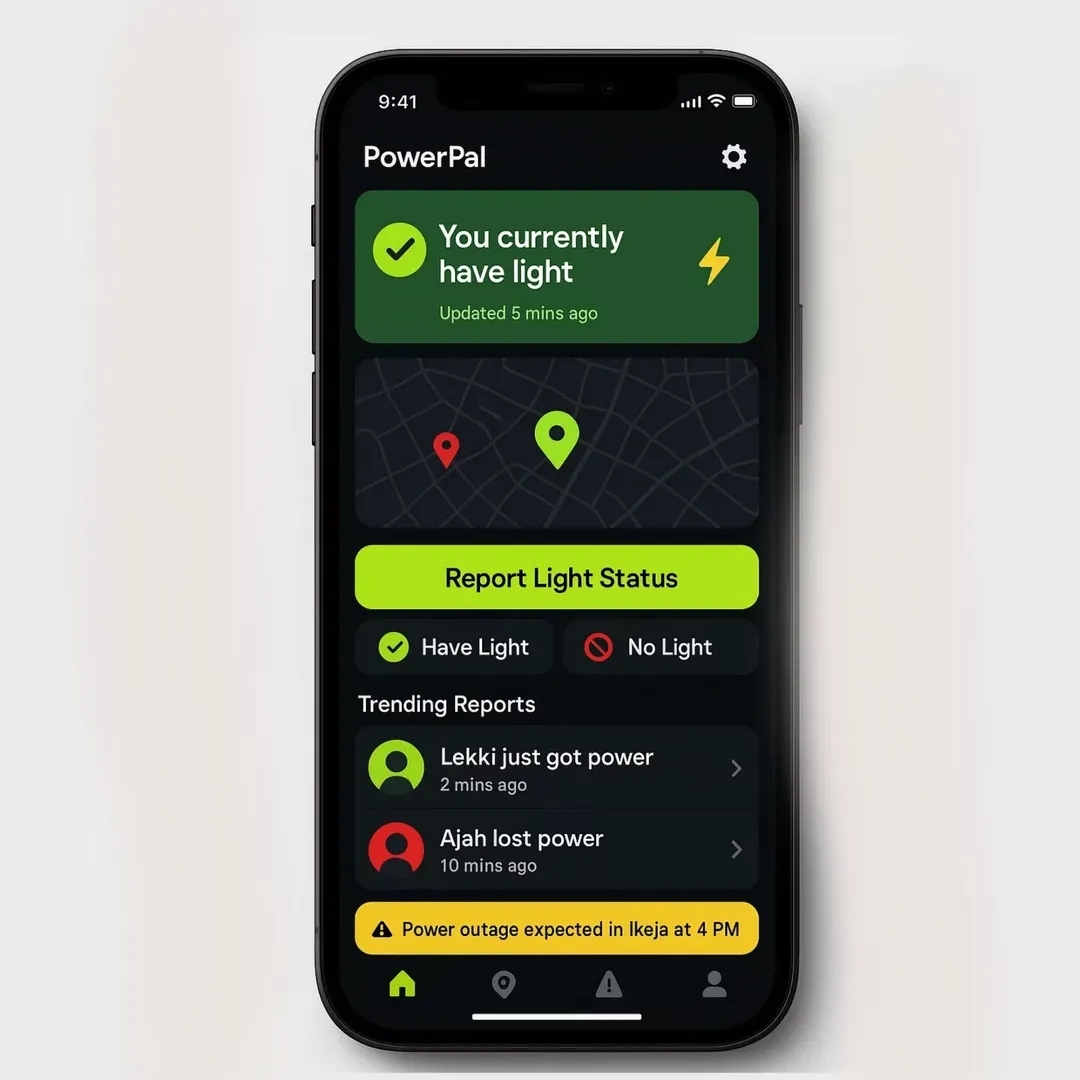
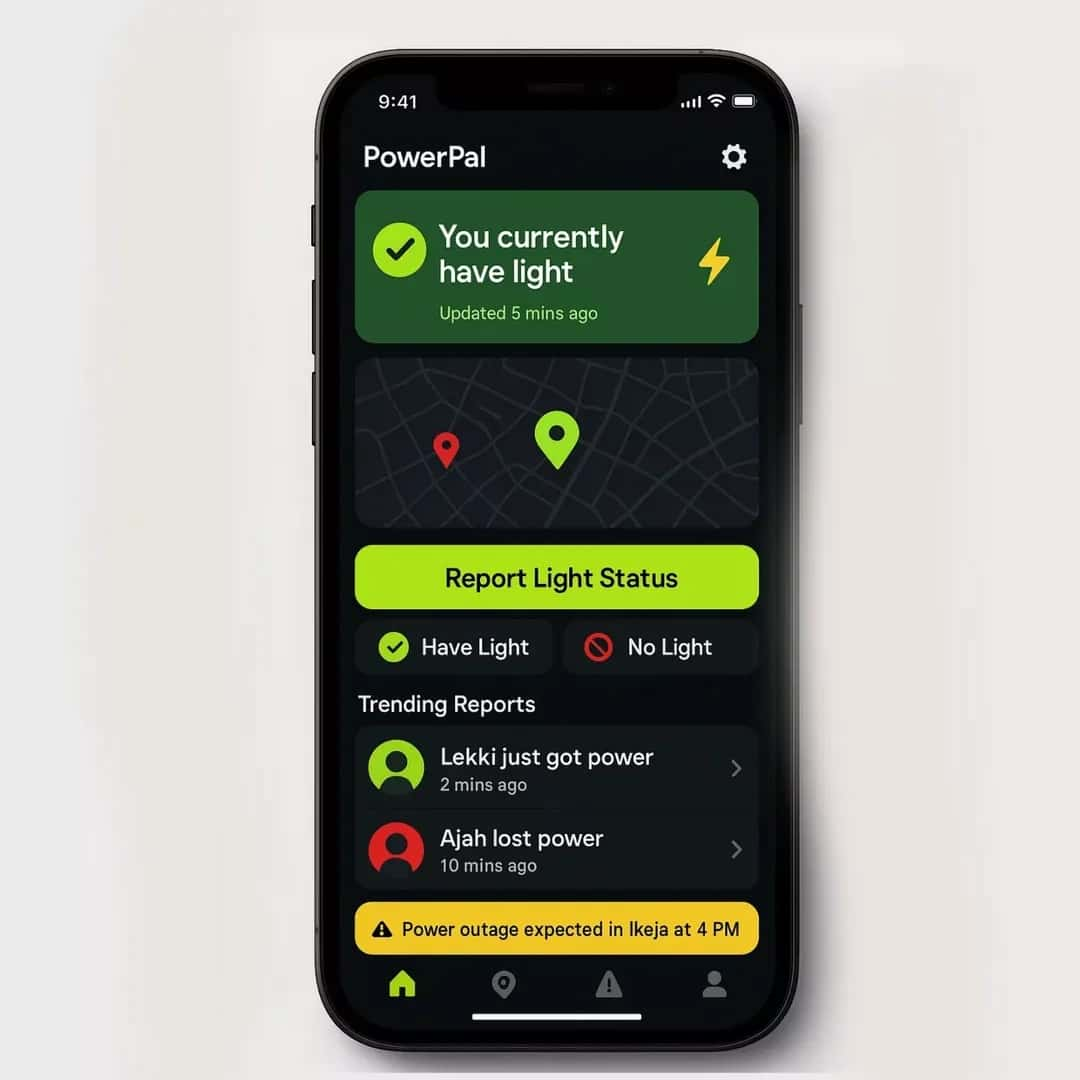
optimized images

diff --git a/index.html b/index.html
@@ -200,7 +200,7 @@
       <div class="hero-visual" data-reveal>
         <div class="mock">
           <!-- Keeping your original image path -->
-          <img src="images/20250828_142036.jpg" alt="Showcase">
+          <img src="images\logos\20250828_142036.webp" alt="Showcase">
         </div>
       </div>
     </div>
@@ -226,7 +226,7 @@ Over time, I’ve worked on different kinds of projects — from logos and brand
     <div class="about-avatar" data-reveal>
       <div class="about-avatar about-img about-card" style="padding:0; overflow:hidden">
         <!-- Keeping your original image path -->
-        <img src="images/20250828_233112-Recovered.png" alt="Praise Oloyede" style="width:100%; display:block;">
+        <img src="images\logos\20250828_233112-Recovered.webp" alt="Praise Oloyede" style="width:100%; display:block;">
       </div>
     </div>
   </section>
@@ -267,7 +267,7 @@ Over time, I’ve worked on different kinds of projects — from logos and brand
         <div class="testimonial">
           <div class="quote">“Praise took our brand from bland to unforgettable. The new identity helped increase conversions and gave our team a confident voice.”</div>
           <div class="client">
-            <img src="images/person.png" alt="Client avatar">
+            <img src="images\logos\person.png" alt="Client avatar">
             <div>
               <div class="client-info">Emmanuel Olusegun</div>
               <div class="client-role">CEO — Vincevad Limited</div>
@@ -278,7 +278,7 @@ Over time, I’ve worked on different kinds of projects — from logos and brand
         <div class="testimonial">
           <div class="quote">“The social campaign exceeded expectations — CTRs and engagement skyrocketed. Clear strategy and stunning creative.”</div>
           <div class="client">
-            <img src="images/person.png" alt="Client avatar">
+            <img src="images\logos\person.png" alt="Client avatar">
             <div>
               <div class="client-info">Mark Wilson</div>
               <div class="client-role">Marketing Lead — Pulse</div>
@@ -289,7 +289,7 @@ Over time, I’ve worked on different kinds of projects — from logos and brand
         <div class="testimonial">
           <div class="quote">“Fast, professional, and deeply thoughtful. The product UI shipped ahead of schedule and looks incredible.”</div>
           <div class="client">
-            <img src="images/person.png" alt="Client avatar">
+            <img src="images\logos\person.png" alt="Client avatar">
             <div>
               <div class="client-info">Obasi Hope</div>
               <div class="client-role">CEO — Proveede</div>
@@ -300,9 +300,9 @@ Over time, I’ve worked on different kinds of projects — from logos and brand
 
       <div class="client-logos" data-reveal>
         <!-- placeholder client logos -->
-        <img src="images/20250731_132812.jpg" alt="Client logo">
-        <img src="images/12355233.jpg" alt="Client logo">
-        <img src="images/427195940.jpg" alt="Client logo">
+        <img src="images\logos\12355233.webp" alt="Client logo">
+        <img src="images\logos\427195940.webp" alt="Client logo">
+        <img src="images\logos\20250731_132812.webp" alt="Client logo">
       </div>
     </div>
   </section>
@@ -324,58 +324,57 @@ Over time, I’ve worked on different kinds of projects — from logos and brand
 
     <div class="portfolio-grid" id="portfolioGrid" data-reveal>
       <!-- Church (5) -->
-      <div class="tile church"><img src="images/New folder\1937746163.jpg" alt="Church"></div>
-      <div class="tile church"><img src="images/New folder\78319918.jpg" alt="Church"></div>
-      <div class="tile church"><img src="images/New folder\-1227419343.jpg" alt="Church"></div>
-      <div class="tile church"><img src="images/New folder\-1316138861.jpg" alt="Church"></div>
-      <div class="tile church"><img src="images/New folder\-463010886.jpg" alt="Church"></div>
+      <div class="tile church"><img src="images\church\78319918.jpg" alt="Church"></div>
+      <div class="tile church"><img src="images\church\-463010886.jpg" alt="Church"></div>
+      <div class="tile church"><img src="images\church\1937746163.webp" alt="Church"></div>
+      <div class="tile church"><img src="images\church\-1316138861.webp" alt="Church"></div>
+      <div class="tile church"><img src="images\church\-1227419343.webp" alt="Church"></div>
 
       <!-- Logos (many) -->
-      <div class="tile logo"><img src="images/Image_fx (21).jpg" alt="Logo"></div>
-      <div class="tile logo"><img src="images/20250828_112505.jpg" alt="Logo"></div>
-      <div class="tile logo"><img src="images/Image_fx (2).jpg" alt="Logo"></div>
-      <div class="tile logo"><img src="images/Image_fx (3).jpg" alt="Logo"></div>
-      <div class="tile logo"><img src="images/Image_fx (7).jpg" alt="Logo"></div>
-      <div class="tile logo"><img src="images/Image_fx (17).jpg" alt="Logo"></div>
-      <div class="tile logo"><img src="images/Image_fx (18).jpg" alt="Logo"></div>
-      <div class="tile logo"><img src="images/Image_fx (19).jpg" alt="Logo"></div>
-      <div class="tile logo"><img src="images/Image_fx (20).jpg" alt="Logo"></div>
+      <div class="tile logo"><img src="images\logos\20250828_112505.webp" alt="Logo"></div>
+      <div class="tile logo"><img src="images\logos\Image_fx (2).webp" alt="Logo"></div>
+      <div class="tile logo"><img src="images\logos\Image_fx (3).webp" alt="Logo"></div>
+      <div class="tile logo"><img src="images\logos\Image_fx (7).webp" alt="Logo"></div>
+      <div class="tile logo"><img src="images\logos\Image_fx (17).webp" alt="Logo"></div>
+      <div class="tile logo"><img src="images\logos\Image_fx (18).jpg" alt="Logo"></div>
+      <div class="tile logo"><img src="images\logos\Image_fx (19).jpg" alt="Logo"></div>
+      <div class="tile logo"><img src="images\logos\Image_fx (20).webp" alt="Logo"></div>
+      <div class="tile logo"><img src="images\logos\Image_fx (21).jpg" alt="Logo"></div>
 
       <!-- Social Media (6) -->
-      <div class="tile social"><img src="images/New folder\-540601985.jpg" alt="Social"></div>
-      <div class="tile social"><img src="images/New folder\-800605971.jpg" alt="Social"></div>
-      <div class="tile social"><img src="images/New folder\442357456.jpg" alt="Social"></div>
-      <div class="tile social"><img src="images/New folder\1715235577.jpg" alt="Social"></div>
-      <div class="tile social"><img src="images/New folder\1174792527.jpg" alt="Social"></div>
-      <div class="tile social"><img src="images/New folder\1136470963.jpg" alt="Social"></div>
+      <div class="tile social"><img src="images\social media\1715235577.webp" alt="Social"></div>
+      <div class="tile social"><img src="images\social media\1174792527.webp" alt="Social"></div>
+      <div class="tile social"><img src="images\social media\1136470963.webp" alt="Social"></div>
+      <div class="tile social"><img src="images\social media\1136470963.webp" alt="Social"></div>
+      <div class="tile social"><img src="images\social media\-540601985.webp" alt="Social"></div>
+      <div class="tile social"><img src="images\social media\442357456.jpg" alt="Social"></div>
 
       <!-- Product Design (7) -->
-      <div class="tile product"><img src="images/Image_fx (23).jpg" alt="product"></div>
-      <div class="tile product"><img src="images/Image_fx (8).jpg" alt="product"></div>
-      <div class="tile product"><img src="images/Image_fx (25).jpg" alt="product"></div>
-      <div class="tile product"><img src="images/Image_fx (32).jpg" alt="product"></div>
-      <div class="tile product"><img src="images/Image_fx (35).jpg" alt="product"></div>
-      <div class="tile product"><img src="images/Image_fx (40).jpg" alt="product"></div>
-      <div class="tile product"><img src="images/Image_fx (42).jpg" alt="product"></div>
+      <div class="tile product"><img src="images\producy\image_fx (42).webp" alt="product"></div>
+      <div class="tile product"><img src="images\producy\image_fx (40).webp" alt="product"></div>
+      <div class="tile product"><img src="images\producy\image_fx (35).webp" alt="product"></div>
+      <div class="tile product"><img src="images\producy\image_fx (32).webp"alt="product"></div>
+      <div class="tile product"><img src="images\producy\image_fx (25).webp" alt="product"></div>
+      <div class="tile product"><img src="images\producy\image_fx (23).webp" alt="product"></div>
 
       <!-- UI/UX (8+) -->
-      <div class="tile uiux"><img src="images/uiux\466781423.jpg" alt="UIUX"></div>
-      <div class="tile uiux"><img src="images/uiux\-143571071.jpg" alt="UIUX"></div>
-      <div class="tile uiux"><img src="images/uiux\193528761.jpg" alt="UIUX"></div>
-      <div class="tile uiux"><img src="images/uiux\2146079741.jpg" alt="UIUX"></div>
-      <div class="tile uiux"><img src="images/uiux\361520710.jpg" alt="UIUX"></div>
-      <div class="tile uiux"><img src="images/uiux\2068036000.jpg" alt="UIUX"></div>
-      <div class="tile uiux"><img src="images/uiux\-1075572841.jpg" alt="UIUX"></div>
-      <div class="tile uiux"><img src="images/uiux\-1374331342.jpg" alt="UIUX"></div>
+      <div class="tile uiux"><img src="images\uiux\-143571071.jpg" alt="UIUX"></div>
+      <div class="tile uiux"><img src="images\uiux\361520710.jpg" alt="UIUX"></div>
+      <div class="tile uiux"><img src="images\uiux\-845360829.jpg" alt="UIUX"></div>
+      <div class="tile uiux"><img src="images\uiux\2068036000.jpg" alt="UIUX"></div>
+      <div class="tile uiux"><img src="images\uiux\2146079741.jpg" alt="UIUX"></div>
+      <div class="tile uiux"><img src="images\uiux\-1374331342.jpg" alt="UIUX"></div>
+      <div class="tile uiux"><img src="images\uiux\-998994382.jpg" alt="UIUX"></div>
+      <div class="tile uiux"><img src="images\uiux\193528761.jpg" alt="UIUX"></div>
 
       <!-- Thumbnail Designs (more) -->
-      <div class="tile Thumbnail"><img src="images/thumbnails\2116018389.jpg"alt="Thumbnail Designs"></div>
-      <div class="tile Thumbnail"><img src="images/thumbnails\713193515.jpg" alt="Thumbnail Designs"></div>
-      <div class="tile Thumbnail"><img src="images/thumbnails\maxresdefault (12).jpg" alt="Thumbnail Designs"></div>
-      <div class="tile Thumbnail"><img src="images/thumbnails\IMG-20250607-WA0048-01.png" alt="Thumbnail Designs"></div>
-      <div class="tile Thumbnail"><img src="images/thumbnails\543881920.jpg" alt="Thumbnail Designs"></div>
-      <div class="tile Thumbnail"><img src="images/thumbnails\20250819_133447-01.jpg" alt="Thumbnail Designs"></div>
-      <div class="tile Thumbnail"><img src="images/thumbnails\20250721_085258.jpg" alt="Thumbnail Designs"></div>
+      <div class="tile Thumbnail"><img src="images\thumbnals\2116018389.webp"alt="Thumbnail Designs"></div>
+      <div class="tile Thumbnail"><img src="images\thumbnals\713193515.webp" alt="Thumbnail Designs"></div>
+      <div class="tile Thumbnail"><img src="images\thumbnals\IMG-20250607-WA0048-01.webp" alt="Thumbnail Designs"></div>
+      <div class="tile Thumbnail"><img src="images\thumbnals\maxresdefault (12).jpg" alt="Thumbnail Designs"></div>
+      <div class="tile Thumbnail"><img src="images\thumbnals\543881920.webp" alt="Thumbnail Designs"></div>
+      <div class="tile Thumbnail"><img src="images\thumbnals\20250819_133447-01.webp" alt="Thumbnail Designs"></div>
+      <div class="tile Thumbnail"><img src="images\thumbnals\20250721_085258.webp" alt="Thumbnail Designs"></div>
     </div>
       </section>
 
